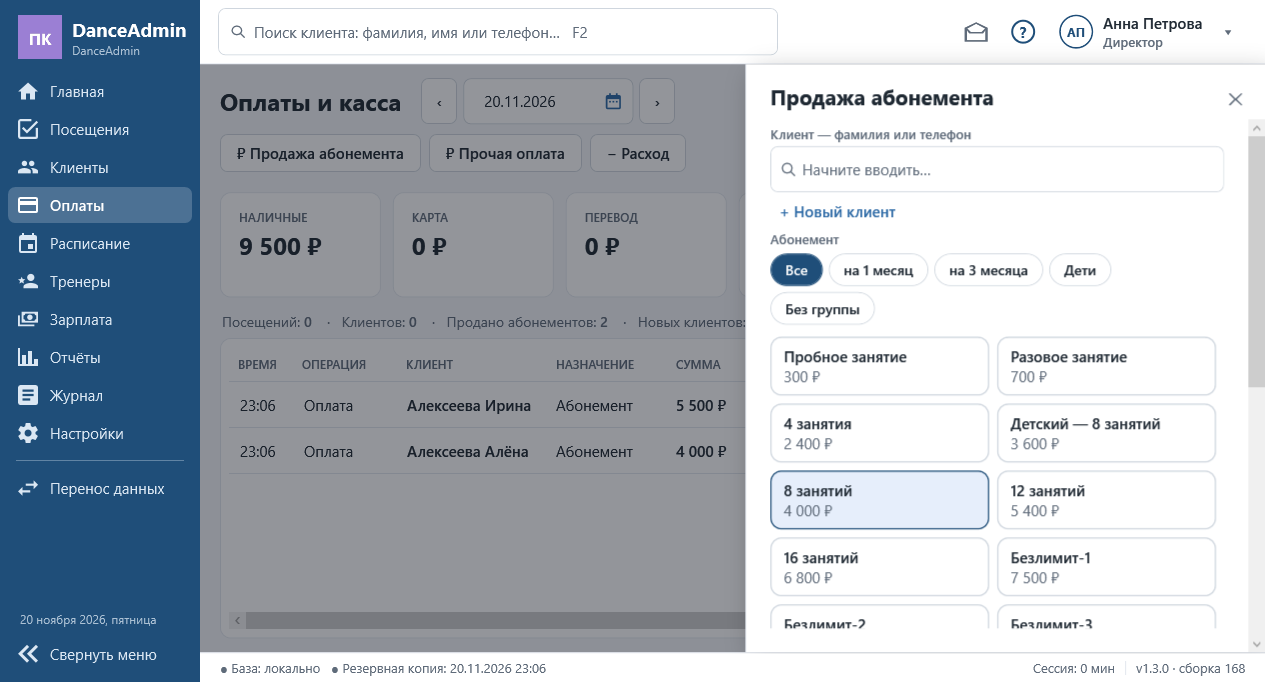
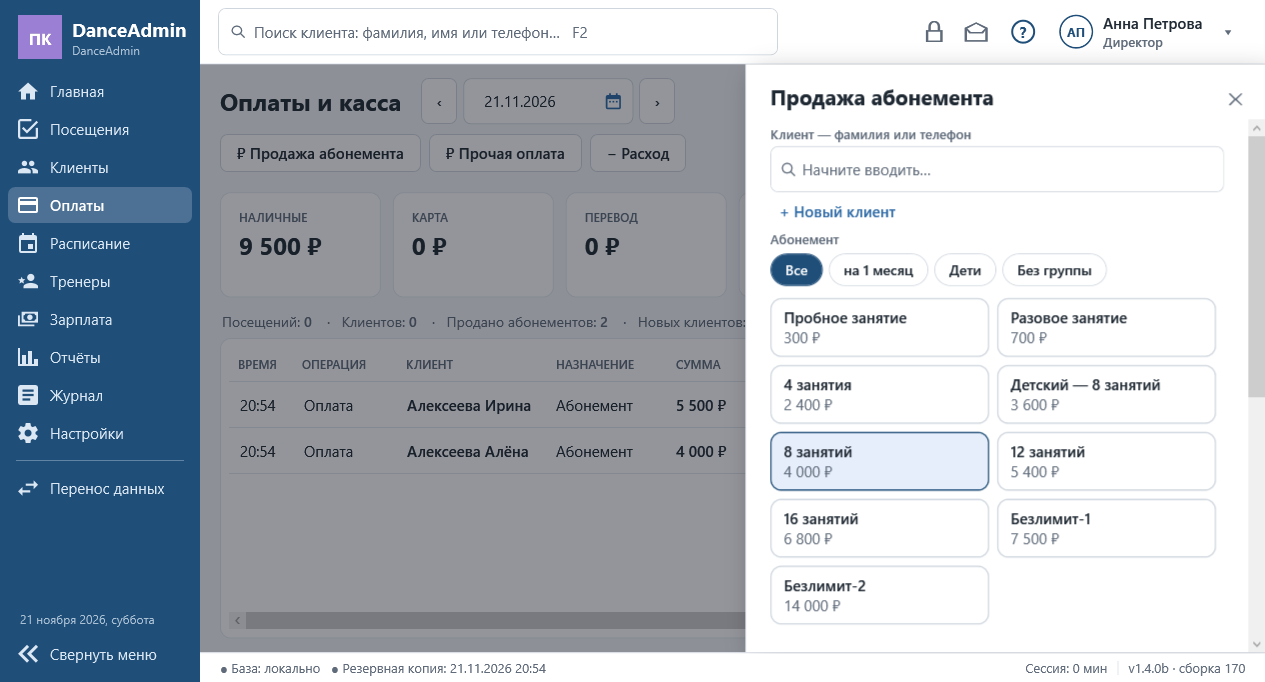
V1.4.0-beta.170

diff --git a/RELEASE_NOTES.md b/RELEASE_NOTES.md
@@ -1,31 +1,33 @@
-# DanceAdmin 1.3.0 (сборка 168)
+# DanceAdmin 1.4.0b (сборка 170) — бета
 
-Обычный выпуск: всё, что появилось в бета-версиях 1.3.0b (сборки 160–167), проверено и собрано в одну версию. Предыдущий обычный выпуск — 1.2.0 (сборка 159).
+Предварительный выпуск (Pre-release). Последний обычный выпуск — 1.3.0 (сборка 168): если нужна проверенная версия, берите его.
 
 **Скачать:**
-- `DanceAdmin_Setup_1.3.0-168.exe` — установщик (рекомендуется);
-- `DanceAdmin_1.3.0-168_portable.zip` — переносная версия, без установки (exe, лицензия, руководство).
+- `DanceAdmin_Setup_1.4.0b-170.exe` — установщик (рекомендуется);
+- `DanceAdmin_1.4.0b-170_portable.zip` — переносная версия, без установки (exe, лицензия, руководство).
 
-Windows 10/11 x64, .NET внутри. Данные — в `C:\ProgramData\DanceAdmin\`. Установка поверх прежней версии сохраняет базу (обновляется автоматически, перед обновлением делается резервная копия).
+Windows 10/11 x64, .NET внутри. Данные — в `C:\ProgramData\DanceAdmin\`. Установка поверх прежней версии сохраняет базу (перед обновлением делается резервная копия).
 
-## Что нового по сравнению с 1.2.0
-- **Баланс клиента.** Можно принять оплату больше стоимости абонемента (с предупреждением) — остаток записывается на баланс и учитывается при следующей продаже («Учесть баланс клиента»). Переплата и долг взаимозачитываются: у клиента всегда одна сумма — долг или переплата.
-- **Корректировка абонемента:** можно изменить стоимость уже оплаченного абонемента (меньше — разница на баланс, больше — долг).
-- **Печать:** выбор направлений, залов и абонементов в окне с галочками; именованные пресеты («Сохранить как…», «Обновить»); «Просмотр»; **«Лист пополам»** — на одном листе А4 расписание недели и прайс, два расписания или два прайса (с линией для разреза); прайс — только название и цена, по группам в два столбика. В шапке листа — вид коллектива, название и телефон клуба.
-- **Клуб** (Настройки → Расширенные): «Что это» (клуб, студия танца, фитнес-центр…) и телефон.
-- **Клиенты:** поле «Группа» в окне клиента (с «— без группы —»), фамилия необязательна, фильтры «— без категории —» и «— без группы —» в «Клиентах» и «Посещениях».
-- **Помощник и руководство:** поиск слов в любой форме и с опечатками, раздел «Словарь: что значат слова в программе», раздел «Обновления и что нового».
-- **Права:** «Журнал действий» — группа с подпунктами «Просмотр» и «Скачать журнал».
+## Что нового по сравнению с 1.3.0
+- **Отметка без ограничения по времени** (Настройки → Расширенные): по желанию клиента можно отметить в любой момент, в том числе на прошлом занятии, если забыли.
+- **Блокировка программы:** замок вверху справа и Ctrl+L — вход по паролю, смена не закрывается.
+- **Зарплата тренеров:** коррекция ставки для тренера (± % или ± ₽), минимальная оплата за занятие (доплата пересчитывается при доотметке), щелчок по строке истории начислений показывает детали: кто отмечен, ставки, доплата. Новые права «Тренеры → Изменение зарплаты».
+- **Отчёт смены:** колонка «Способ» (наличные, карта, перевод, с баланса) у абонементов и зарплаты.
+- **Справочники:** архив типов абонементов («Переместить в архив», «Вернуть из архива», удалить можно только никем не купленный тип); у групп абонементов — подсказка со списком типов.
+- **Назначения расходов** настраиваются в «Расширенных».
+- «● сейчас» на главной — только пока занятие идёт; кнопка «Аренда зала» на главной.
 
 ## Исправления
-- О новых версиях программа сообщает при каждом входе и каждые 4 часа (раньше новая версия могла не показаться до следующего дня).
-- Импорт клиентов больше не ставит «Взрослые» тем, у кого в файле нет возрастной категории.
-- Пункт «Перенос данных» появляется в меню сразу после импорта настроек и не подсвечен всё время.
-- Отчёт смены: «Иная оплата» и «Иной расход» печатаются, только если в них есть записи.
-- В разделе «Тренеры» видны направления из действующего расписания тренера.
+- Долг клиента после аннулирования оплаты с переплатой считается верно.
+- Автоблокировка при простое снова срабатывает.
+- В истории тренера «За период: начислено» учитывает доплату до минимума.
+- Права ролей: щелчок по «квадратику» группы отмечает все подпункты.
+- В режиме «Только просмотр» окна изменений не открываются и объясняют почему.
+- Помощник исправляет опечатки и в словах-примерах; мелкие исправления надписей.
 
 ## Важно
-- Делайте резервные копии (Настройки → Резервные копии, «вторая папка» на флешку или в облако).
+- Бета приходит в программе только тем, у кого в «О программе» отмечено «Сообщать о бета-версиях».
+- Делайте резервные копии (Настройки → Резервные копии).
 - Программа не подписана сертификатом: Windows SmartScreen покажет предупреждение — «Подробнее» → «Выполнить в любом случае».
 - Об ошибках и пожеланиях — в Issues.
 

diff --git a/CHANGELOG.md b/CHANGELOG.md
@@ -2,6 +2,31 @@
 
 Формат версий: `Major.Minor.Patch.Build` (ТЗ §24).
 
+## 1.4.0b, сборка 170 — 22.11.2026
+
+Исправления по полной проверке тестировщиком (`tests/reports/tester-169.md`) и детали начислений.
+- **BUG-1:** аннулировали / вернули оплату с переплатой или увеличили стоимость — баланс уходил в минус и долг занижался. Теперь `SalesService.Unsettle` (вызывается в начале `Settle`): списания «с баланса» отменяются с конца (или уменьшаются), пока баланс не ≥ 0; журнал «Зачёт баланса … пересчитан». `SettleAll` при входе чинит и старые данные.
+- **BUG-2:** щелчок по квадратику группы прав отмечает все подпункты (`PermToggle.Display`: из «частично» → «все»).
+- **BUG-3:** «За период: начислено» и фильтр «Начислено» в истории учитывают «Доплату до минимума» (`SalaryHistoryRow.IsAccrual`).
+- **Детали начисления:** щелчок по строке истории — окно `SalaryDetailsWindow`: за занятие — клиенты, абонементы, ставки, кто и когда отметил, минимум, доплата, итог (`SalaryService.LessonDetails`); выдача / коррекция — способ, причина, кто.
+- **BUG-4:** помощник: если слово в руководстве встречается не больше 2 раз (пример опечатки «абонимент»), ищется и с опечаткой (`HelpIndex.Counts`).
+- **BUG-5:** при продаже с переплатой у клиента с долгом — «погасит долг клиента X ₽, Y ₽ — на баланс».
+- **BUG-6:** архив типов — «без группы» (`FallbackValue`). **BUG-7:** черновик закрытия смены — «прочее». **BUG-8:** счётчик отмеченных у занятия обновляется сразу и на прошлых днях (`LessonRowVM.Marked`). **BUG-9:** «Продолжительность» в аренде не обрезана; в «Посещениях» кнопка «Сегодня» перенесена в полосу «Выбран <дата> · Перейти к сегодняшним»; длинные ФИО в «Параллельно» обрезаются «…». **BUG-10:** склонение «занятие / посещения» у тренеров. **BUG-11:** тип с 0 дней заморозки сохраняется без числа частей. **BUG-12:** «Только просмотр» — окна изменений не открываются, `Session.Demand` объясняет причину.
+- **Автоблокировка:** не срабатывала — простой сбрасывала любая смена фокуса (`KeyboardEventArgs`); теперь только нажатия клавиш, щелчки и колесо мыши.
+
+## 1.4.0b, сборка 169 — 21.11.2026
+
+- Новая бета-ветка 1.4.0b после выпуска 1.3.0.
+- **Отметка без ограничения по времени** (Расширенные → Отметка посещений, `mark.unlimited`): окно до / после не действует, можно отмечать и прошлые занятия (`MarkRules.Unlimited`, `DayAllowed`; в «Посещениях» отметка открыта на любом дне).
+- **«● сейчас»** на «Главной» и в «Посещениях» — только с начала до конца занятия (`LessonRowVM.IsRunning`).
+- **«₽ Аренда зала»** — кнопка на «Главной» (окно прежнее: аренда и прочая оплата).
+- **Справочники:** у группы абонементов «типов: N ⓘ» — подсказка со списком типов; **архив типов** — блок «Архив» под списком, в карточке «Переместить в архив», в архиве «Вернуть из архива» и «Удалить» (насовсем — только никем не купленный) (`ReferenceService.ArchiveMembershipType`, `TypeWasSold`).
+- **Назначения расходов** — редактируются в «Расширенных» (`expense.purposes`, по одному на строке, «Вернуть стандартные»); в окне «Расход» по-прежнему можно вписать своё.
+- **Замок в шапке и Ctrl+L** — заблокировать программу (вход по паролю, смена не закрывается; та же логика, что автоблокировка).
+- **Отчёт смены: колонка «Способ»** у приобретённых абонементов и у зарплаты (`ReportSaleRow.Method`, `ReportExpenseRow.Method`); в «Примечании» способа больше нет. Старые отчёты — «—».
+- **Тренер:** «ⓘ» у «Направления» (только информация); **коррекция ставки** — `Trainer.RateMode` / `RateCorrection` (± % или ± ₽, миграция `V169_TrainerRateCorrection`), применяется при отметке (`SalaryService.CorrectedRate`), выгружается и загружается. **Права:** «Тренеры» — группа с подпунктами «Изменение» и «Изменение зарплаты» (`trainers.salary`), обновление `perms.v169`.
+- **Минимальная оплата тренеру за занятие** (Правила и ставки): за занятие — большее из «по отметкам» и минимума; доплата считается на лету (`SalaryService.LessonTopUps`) — при доотметке пересчитывается, в истории «Доплата до минимума». Действует с дня включения (`salary.trainer_min_from`).
+
 ## 1.3.0, сборка 168 — 20.11.2026 — обычный выпуск
 
 Всё из бета-версий 1.3.0b (сборки 160–167). Главное по сравнению с 1.2.0 (сборка 159):
